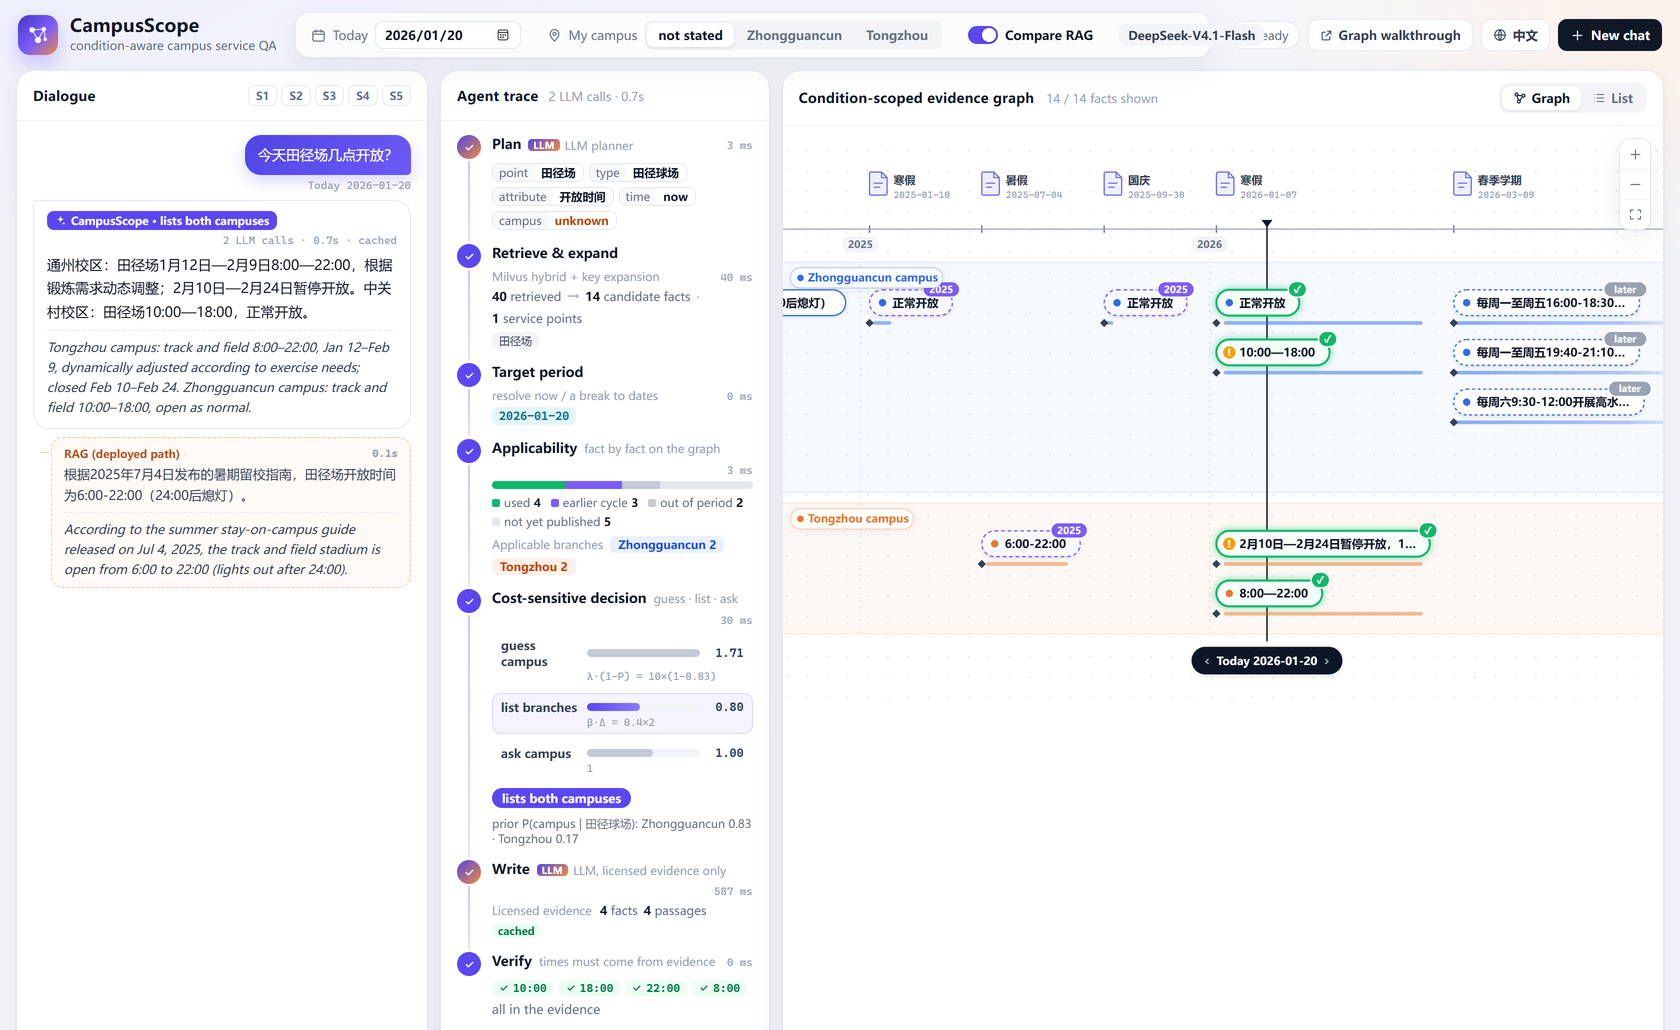
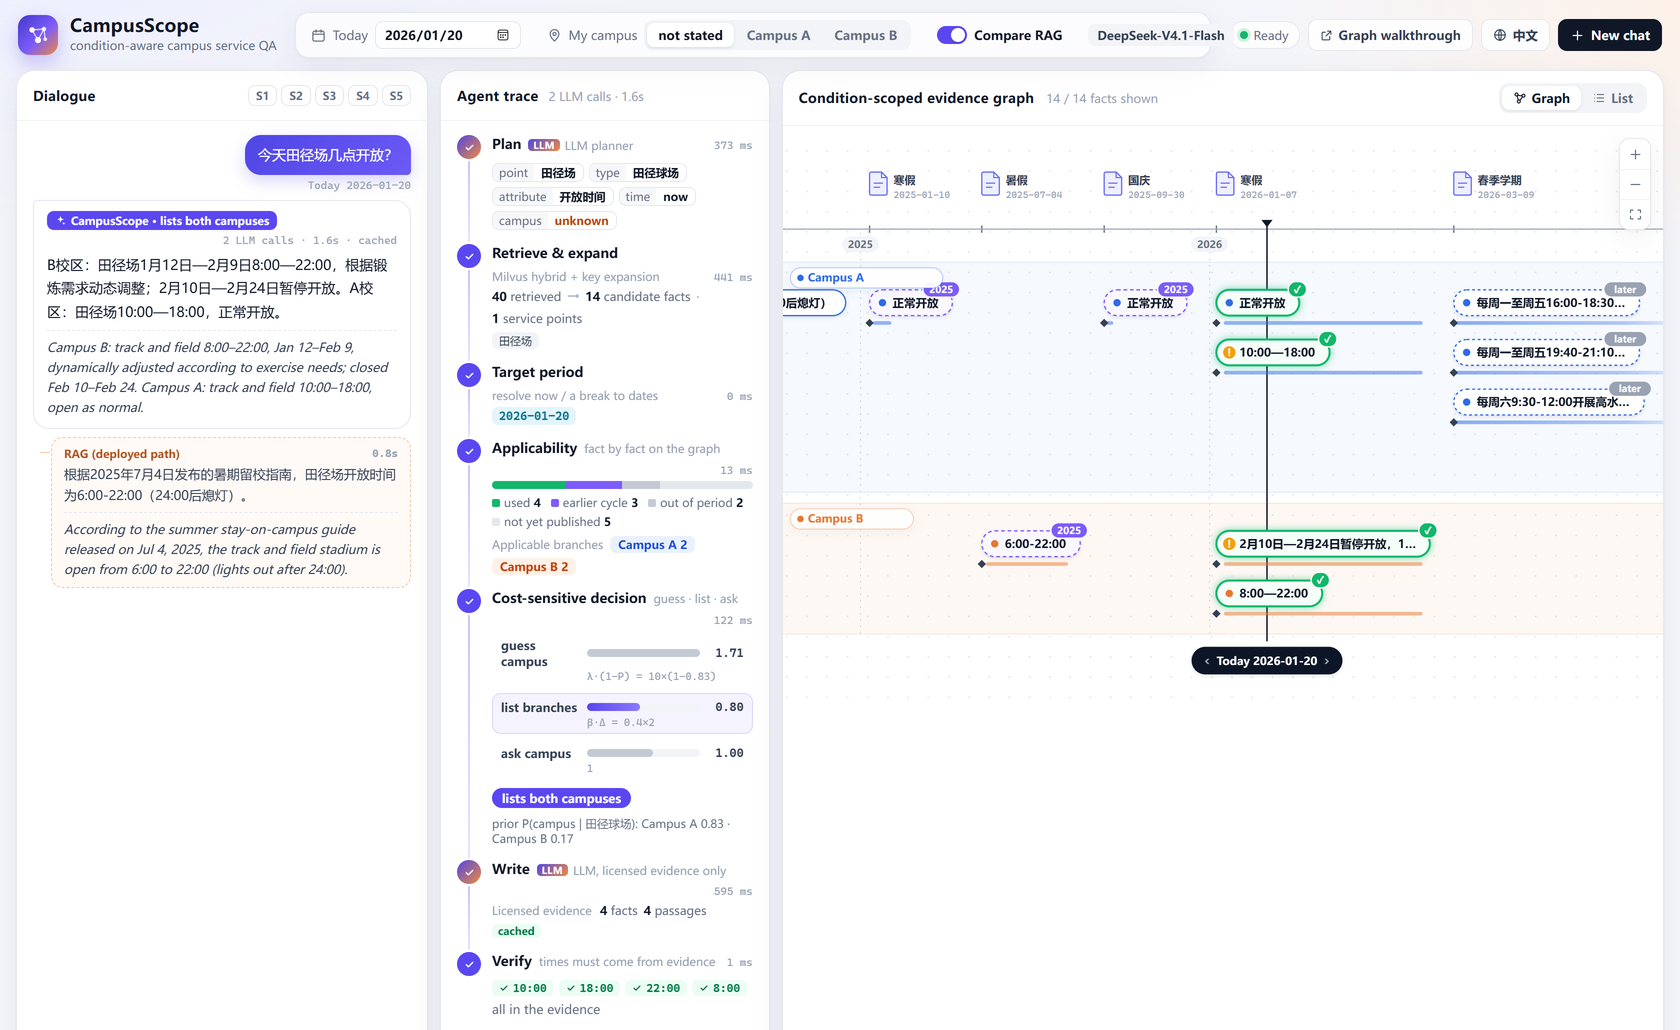
Present the demo as a generic university: no school, campus or department names
The demo is meant for any university, so nothing on screen or in the docs
names the one whose public notices it runs on.

- README, data/README, event protocol: "a university's logistics
  department", campus A / campus B, no portal or account names;
  CondQA-RUC is now CondQA-Campus.
- demo/frontend/public/deid.js, loaded by the app and the walkthrough page:
  replaces campus, university, department and account names in everything
  displayed (answers, notices, facts, graph labels), at display time only.
  The campus buttons read A校区 / B校区 (Campus A / B).
- The back end maps what a visitor types with the displayed names
  (A校区, Campus B, ...) back to the notices' own names, so the system
  still recognises the campus (test_campus_alias.py).
- docs/figures/interface.png retaken with the de-identified interface.

The system itself still reads the original notices; its parsing rules and
prompts are unchanged, so the paper's numbers and the released cache hold.

diff --git a/demo/frontend/src/i18n.ts b/demo/frontend/src/i18n.ts
@@ -2,8 +2,8 @@ import type { Lang } from "./types";
 
 const zh = {
   lang: "zh" as Lang,
-  brandSub: "条件感知的校园服务问答", today: "今天", campus: "我的校区", unstated: "未说明", zgc: "中关村", tz: "通州",
-  zgcFull: "中关村校区", tzFull: "通州校区", allFull: "两校区 / 未注明", compare: "对比 RAG", walkthrough: "证据图详解",
+  brandSub: "条件感知的校园服务问答", today: "今天", campus: "我的校区", unstated: "未说明", zgc: "A校区", tz: "B校区",
+  zgcFull: "A校区", tzFull: "B校区", allFull: "两校区 / 未注明", compare: "对比 RAG", walkthrough: "证据图详解",
   newChat: "新对话", dialogue: "对话", trace: "智能体轨迹", evidence: "条件作用域证据图", send: "发送", stop: "停止",
   placeholder: "问一个校园服务问题，例如：寒假期间田径场几点开放？", tryThese: "试试这些场景",
   heroTitle: "问一个问题，看它怎样在证据图上被回答",
@@ -12,7 +12,7 @@ const zh = {
   act: { answer: "直接回答", enumerate: "分校区列出", assume: "按最可能校区回答", ask: "追问校区", history: "往年参考", abstain: "无法回答" } as Record<string, string>,
   baseline: "RAG（部署路径）", baselineRunning: "RAG 生成中…", thinking: "推理中", writing: "生成中",
   calls: "次 LLM 调用", cached: "缓存命中", retry: "模型网关繁忙，第 {n} 次重试…", warmingMsg: "后端正在加载证据图与索引…",
-  stopped: "已停止", errorPrefix: "出错了：", quickZgc: "我在中关村校区", quickTz: "我在通州校区",
+  stopped: "已停止", errorPrefix: "出错了：", quickZgc: "我在A校区", quickTz: "我在B校区",
   traceEmpty: "提问后，这里逐步显示：理解问题 → 检索与图扩展 → 目标时段 → 适用性推理 → 代价敏感决策 → 生成 → 校验。",
   st: { plan: "理解问题", ground: "检索与图扩展", target: "目标时段", apply: "适用性推理", decide: "代价敏感决策", write: "生成答复", verify: "校验" } as Record<string, string>,
   stHint: { plan: "LLM 规划器", ground: "Milvus 混合检索 + 按键扩展", target: "把「今天/寒假」落到日期", apply: "在图上逐条判断", decide: "猜 · 列出 · 追问", write: "LLM，仅用许可证据", verify: "时间必须来自证据" } as Record<string, string>,
@@ -50,8 +50,8 @@ type Dict = typeof zh;
 
 const en: Dict = {
   lang: "en",
-  brandSub: "condition-aware campus service QA", today: "Today", campus: "My campus", unstated: "not stated", zgc: "Zhongguancun", tz: "Tongzhou",
-  zgcFull: "Zhongguancun campus", tzFull: "Tongzhou campus", allFull: "both / unstated", compare: "Compare RAG", walkthrough: "Graph walkthrough",
+  brandSub: "condition-aware campus service QA", today: "Today", campus: "My campus", unstated: "not stated", zgc: "Campus A", tz: "Campus B",
+  zgcFull: "Campus A", tzFull: "Campus B", allFull: "both / unstated", compare: "Compare RAG", walkthrough: "Graph walkthrough",
   newChat: "New chat", dialogue: "Dialogue", trace: "Agent trace", evidence: "Condition-scoped evidence graph", send: "Send", stop: "Stop",
   placeholder: "Ask in Chinese, e.g. 寒假期间田径场几点开放？ (track field hours in the winter break)", tryThese: "Try a scenario",
   heroTitle: "Ask a question and watch it being answered on the evidence graph",
@@ -60,7 +60,7 @@ const en: Dict = {
   act: { answer: "answer", enumerate: "lists both campuses", assume: "answers for the likely campus", ask: "asks for the campus", history: "last cycle, labeled", abstain: "no answer" },
   baseline: "RAG (deployed path)", baselineRunning: "RAG is writing…", thinking: "Reasoning", writing: "Writing",
   calls: "LLM calls", cached: "cached", retry: "Gateway busy, retry {n}…", warmingMsg: "The backend is loading the graph and the index…",
-  stopped: "Stopped", errorPrefix: "Error: ", quickZgc: "我在中关村校区", quickTz: "我在通州校区",
+  stopped: "Stopped", errorPrefix: "Error: ", quickZgc: "我在A校区", quickTz: "我在B校区",
   traceEmpty: "After you ask: plan → retrieval and graph expansion → target period → applicability → cost-sensitive decision → write → verify.",
   st: { plan: "Plan", ground: "Retrieve & expand", target: "Target period", apply: "Applicability", decide: "Cost-sensitive decision", write: "Write", verify: "Verify" },
   stHint: { plan: "LLM planner", ground: "Milvus hybrid + key expansion", target: "resolve now / a break to dates", apply: "fact by fact on the graph", decide: "guess · list · ask", write: "LLM, licensed evidence only", verify: "times must come from evidence" },

diff --git a/demo/frontend/public/deid.js b/demo/frontend/public/deid.js
@@ -1,0 +1,68 @@
+/* Display-level de-identification: the demo runs on one university's public notices, but shows them as a generic
+ * campus (Campus A / Campus B, "the university", "the logistics department"). Only what is displayed changes; the
+ * system itself reads and answers the original notices (the back end maps "A校区"/"B校区" typed by a visitor back).
+ * Loaded by index.html and cseg.html; the screenshot scripts of the paper inject the same file. */
+(function () {
+  var MAP = [
+    ["CondQA-RUC", "CondQA-Campus"],
+    ["中国人民大学", "某高校"], ["人民大学", "某高校"], ["温馨人大", "学校公众号"], ["RUC", ""], ["人大", "本校"],
+    ["综合服务保障体系", "高校后勤"], ["综合保障部", "后勤部门"], ["综保部", "后勤部门"], ["综合服务门户", "服务门户"],
+    ["中关村校区", "A校区"], ["通州校区", "B校区"], ["中关村", "A校区"], ["潞城站", "B校区附近地铁站"],
+    ["潞城", "B校区"], ["通州", "B校区"],
+    ["Renmin University of China", "the university"], ["Renmin University", "the university"],
+    ["General Services Department", "logistics department"], ["Wenxin Renda", "the university's WeChat account"],
+    ["Comprehensive Services Portal", "service portal"],
+    ["Zhongguancun campus", "Campus A"], ["Zhongguancun Campus", "Campus A"], ["Tongzhou campus", "Campus B"],
+    ["Tongzhou Campus", "Campus B"], ["Zhongguancun", "Campus A"], ["Tongzhou", "Campus B"], ["Lucheng", "Campus B"]
+  ];
+  function deid(s) {
+    if (!s) return s;
+    for (var i = 0; i < MAP.length; i++) if (s.indexOf(MAP[i][0]) >= 0) s = s.split(MAP[i][0]).join(MAP[i][1]);
+    return s;
+  }
+  window.deid = deid;
+  var ATTRS = ["title", "placeholder", "aria-label", "alt"];
+  function fixText(n) {
+    var v = n.nodeValue, w = deid(v);
+    if (w !== v) n.nodeValue = w;
+  }
+  function fixEl(el) {
+    for (var i = 0; i < ATTRS.length; i++) {
+      var v = el.getAttribute && el.getAttribute(ATTRS[i]);
+      if (v) { var w = deid(v); if (w !== v) el.setAttribute(ATTRS[i], w); }
+    }
+  }
+  function walk(root) {
+    if (!root) return;
+    if (root.nodeType === 3) { fixText(root); return; }
+    if (root.nodeType !== 1 && root.nodeType !== 9 && root.nodeType !== 11) return;
+    if (root.nodeType === 1) {
+      var tag = root.tagName;
+      if (tag === "SCRIPT" || tag === "STYLE" || tag === "TEXTAREA" || tag === "INPUT") return;
+      fixEl(root);
+    }
+    var tw = document.createTreeWalker(root, NodeFilter.SHOW_TEXT | NodeFilter.SHOW_ELEMENT, {
+      acceptNode: function (n) {
+        if (n.nodeType === 1 && (n.tagName === "SCRIPT" || n.tagName === "STYLE" || n.tagName === "TEXTAREA"))
+          return NodeFilter.FILTER_REJECT;
+        return NodeFilter.FILTER_ACCEPT;
+      }
+    });
+    var n;
+    while ((n = tw.nextNode())) { if (n.nodeType === 3) fixText(n); else fixEl(n); }
+  }
+  function start() {
+    walk(document.body);
+    document.title = deid(document.title);
+    new MutationObserver(function (ms) {
+      for (var i = 0; i < ms.length; i++) {
+        var m = ms[i];
+        if (m.type === "characterData") fixText(m.target);
+        else if (m.type === "attributes") fixEl(m.target);
+        else for (var j = 0; j < m.addedNodes.length; j++) walk(m.addedNodes[j]);
+      }
+    }).observe(document.body, { childList: true, subtree: true, characterData: true, attributes: true,
+      attributeFilter: ATTRS });
+  }
+  if (document.body) start(); else document.addEventListener("DOMContentLoaded", start);
+})();

diff --git a/demo/frontend/index.html b/demo/frontend/index.html
@@ -4,6 +4,7 @@
     <meta charset="UTF-8" />
     <meta name="viewport" content="width=device-width, initial-scale=1.0" />
     <link rel="icon" type="image/svg+xml" href="/favicon.svg" />
+    <script src="/deid.js"></script>
     <title>CampusScope · Condition-aware campus service QA</title>
   </head>
   <body>

diff --git a/demo/frontend/public/cseg.html b/demo/frontend/public/cseg.html
@@ -243,6 +243,7 @@ input[type=range]{width:100%;accent-color:var(--brand)}
 .langsw:hover{border-color:#B8AEFF;color:var(--brand)}
 .noglosses .gloss{display:none}
 </style>
+<script src="deid.js"></script>
 </head>
 <body>
 <div class="app">

diff --git a/demo/backend/app/services/qa_service.py b/demo/backend/app/services/qa_service.py
@@ -52,6 +52,17 @@ def safe_gloss(text: str, model: str) -> str | None:
         return None
 
 
+CAMPUS_ALIAS = (("A校区", "中关村校区"), ("B校区", "通州校区"), ("Campus A", "中关村校区"), ("Campus B", "通州校区"),
+                ("campus A", "中关村校区"), ("campus B", "通州校区"))
+
+
+def campus_alias(text: str) -> str:
+    """What a visitor types with the displayed campus names, in the notices' own names."""
+    for shown, real in CAMPUS_ALIAS:
+        text = text.replace(shown, real)
+    return text
+
+
 class QAService:
     def __init__(self, agents: Callable[[str], tuple], settings: Settings):
         self._agents = agents          # model -> (StreamingCampusScope, RAG)
@@ -60,6 +71,8 @@ class QAService:
     @staticmethod
     def conversation(req: ChatRequest) -> list[dict]:
         conv = [t.model_dump() for t in req.conversation]
+        # the interface shows the two campuses as A / B (deid.js); the notices, and so the system, name them
+        conv = [dict(t, text=campus_alias(t["text"])) if t["role"] == "user" else t for t in conv]
         # the campus picked in the top bar counts as something the visitor said (the system only trusts the dialogue)
         if req.campus in CAMPUS_HINT and not any("校区" in t["text"] for t in conv if t["role"] == "user"):
             conv = [dict(role="user", text=CAMPUS_HINT[req.campus])] + conv

diff --git a/scripts/build_benchmark.py b/scripts/build_benchmark.py
@@ -1,9 +1,9 @@
-"""CondQA-RUC (Section 4.1): condition-dependent questions over real notices, with hidden contexts.
+"""CondQA-Campus (Section 4.1): condition-dependent questions over real notices, with hidden contexts.
 
     python scripts/build_benchmark.py
 
 The released data/benchmark.jsonl, gold_facts.jsonl and audit_sheet.csv were produced by this script. The
-gold facts are extracted by Bonsai-27B and cross-checked by Qwen3-32B, so CondQA-RUC is independent of the
+gold facts are extracted by Bonsai-27B and cross-checked by Qwen3-32B, so CondQA-Campus is independent of the
 model under test (DeepSeek-V4.1-Flash) and of CampusScope's graph:
   A. source notices: service notices about hours, openings, schedules and adjustments;
   B. extraction by the *other* model (Bonsai-27B) over the whole notice;

diff --git a/demo/backend/tests/test_campus_alias.py b/demo/backend/tests/test_campus_alias.py
@@ -1,0 +1,9 @@
+"""The interface shows the campuses as A / B; what a visitor types is mapped back to the notices' names."""
+from app.services.qa_service import campus_alias
+
+
+def test_displayed_campus_names_map_back():
+    assert campus_alias("B校区寒假健身房开吗？") == "通州校区寒假健身房开吗？"
+    assert campus_alias("我在A校区") == "我在中关村校区"
+    assert campus_alias("Is the gym on Campus B open?") == "Is the gym on 通州校区 open?"
+    assert campus_alias("今天田径场几点开放？") == "今天田径场几点开放？"

diff --git a/scripts/run_benchmark.py b/scripts/run_benchmark.py
@@ -1,4 +1,4 @@
-"""Runs every system on CondQA-RUC with simulated users (Section 4.1; DeepSeek-V4.1-Flash as the backbone).
+"""Runs every system on CondQA-Campus with simulated users (Section 4.1; DeepSeek-V4.1-Flash as the backbone).
 
     python scripts/run_benchmark.py --suite main       # the seven baselines + CampusScope (Table 1)
     python scripts/run_benchmark.py --suite ablation   # components of CampusScope

diff --git a/campusscope/evaluation/__init__.py b/campusscope/evaluation/__init__.py
@@ -1,1 +1,1 @@
-"""CondQA-RUC evaluation: simulated users, outcome-based judging and the metrics of Table 1."""
+"""CondQA-Campus evaluation: simulated users, outcome-based judging and the metrics of Table 1."""

diff --git a/README.md b/README.md
@@ -45,7 +45,7 @@ timeline of the graph.
 
 ### Why chunks are not enough
 
-Measured on the 1,009 public notices of the General Services Department of Renmin University of China and on its
+Measured on the 1,009 public notices of a university's logistics department and on its
 prototype RAG assistant:
 
 | | Challenge | Observation |
@@ -90,7 +90,7 @@ From 342 service notices, the graph holds 4,031 facts, 1,947 passages, 1,964 rev
 
 ## Results
 
-**CondQA-RUC**: 247 questions over 57 real notices, answered by simulated users who reveal their hidden campus and
+**CondQA-Campus**: 247 questions over 57 real notices, answered by simulated users who reveal their hidden campus and
 dates only when asked. All systems share the notices, retriever, knowledge cutoff, backbone
 (DeepSeek-V4.1-Flash) and simulated user.
 
@@ -123,7 +123,7 @@ explains the graph behind S1 step by step.
 | | Scenario | What the visitor sees |
 |---|---|---|
 | **S1** | Silent campus (C2) | "When is the track field open today?" on 20 January 2026 without a campus: the branches disagree, and listing both (0.80) beats asking (1.00) and guessing (1.71). |
-| **S2** | Scope stated (C1) | A Tongzhou student asks about the gym during the break and gets the Tongzhou section only. |
+| **S2** | Scope stated (C1) | A campus-B student asks about the gym during the break and gets the campus-B section only. |
 | **S3** | Revision (C3) | "When does the East bathhouse open in the morning?" on 9 March 2026: the September slot is struck through, revised in January; dragging "today" back to October makes it apply again. |
 | **S4** | No notice yet (C3) | Winter-break hours asked in December 2025: no fact of the new cycle exists, so the *rec* edge leads to last winter's hours, given with their year. |
 
@@ -172,17 +172,17 @@ campusscope/                the system
 └── llm.py, text.py, chunking.py, config.py
 scripts/                    the offline pipeline: corpus, graph compilation, index, benchmark runs, Table 1
 demo/                       the web demo: FastAPI + SSE back end, React front end, Docker Compose (§3.2, §3.3)
-data/                       notices, compiled notices, CondQA-RUC (see data/README.md)
+data/                       notices, compiled notices, CondQA-Campus (see data/README.md)
 tests/                      unit tests (no data or services needed)
 ```
 
 ## Data and ethics
 
-CampusScope is built on the notices that the General Services Department of Renmin University of China publishes
-on its website (Comprehensive Services Portal) and on its official WeChat account. Two small aggregate files, a
+CampusScope is built on the public notices that a university's logistics department publishes on its website
+and on its official WeChat account; the demo shows its two campuses as campus A and campus B. Two small aggregate files, a
 place-name gazetteer and a per-type campus prior, were derived from the department's internal service log; they
 contain no request text and no personal data (see [data/README.md](data/README.md)). No personal data reach a
-model. The questions of CondQA-RUC are generated from the notices, and the users in the evaluation are simulated
+model. The questions of CondQA-Campus are generated from the notices, and the users in the evaluation are simulated
 by rules that answer a clarification truthfully, only about what was asked.
 
 ## License
@@ -202,5 +202,5 @@ The code is released under the [MIT License](LICENSE). The notices remain the pr
 
 ## Acknowledgments
 
-We thank the General Services Department of Renmin University of China for publishing the notices this work builds
-on and for their advice on the system and on the design of its services.
+We thank the university logistics department that published the notices this work builds on, for its advice on
+the system and on the design of its services.

diff --git a/data/README.md b/data/README.md
@@ -1,17 +1,17 @@
 # Data
 
 Files read by `campusscope/` and written by `scripts/`. They are not included in this repository; this file
-documents their format. The MIT license of this repository covers the code; the notices are public posts of the
-General Services Department of Renmin University of China and remain theirs.
+documents their format. The MIT license of this repository covers the code; the notices are public posts of a
+university's logistics department and remain theirs.
 
 | File | Content | Produced by |
 | --- | --- | --- |
-| `notices.jsonl` | the 1,009 notices published from January 2023 to September 2026 on the department's website (Comprehensive Services Portal) and WeChat account: `doc_id`, `published`, `title`, `text`, and the tags `service`, `family`, `cycle` | `scripts/prepare_corpus.py` (from the notice PDFs; titles tagged by Qwen3-32B) |
+| `notices.jsonl` | the 1,009 notices published from January 2023 to September 2026 on the department's website and WeChat account: `doc_id`, `published`, `title`, `text`, and the tags `service`, `family`, `cycle` | `scripts/prepare_corpus.py` (from the notice PDFs; titles tagged by Qwen3-32B) |
 | `compiled_deepseek.jsonl` | raw compiler output for the 342 service notices: notice-level scope, outline (headings with the conditions they state) and span-grounded facts | `scripts/compile_graph.py` (DeepSeek-V4.1-Flash, temperature 0) |
 | `graph_stats.json` | statistics of the full evidence graph (4,031 facts, 1,947 passages, 1,964 revision and 627 recurrence edges) | `scripts/build_index.py` |
 | `gazetteer.json` | place names → campus (`zgc` / `tz`), the last resort of scope inheritance and the cue of T6 items | see *Provenance* below |
 | `campus_prior.json` | per-service-type campus prior P(campus \| type) of the cost-sensitive responder (Eq. 2) | see *Provenance* below |
-| `benchmark.jsonl` | CondQA-RUC: 247 items with question, hidden context (campus, date), gold and negative tokens, source fact | `scripts/build_benchmark.py` |
+| `benchmark.jsonl` | CondQA-Campus: 247 items with question, hidden context (campus, date), gold and negative tokens, source fact | `scripts/build_benchmark.py` |
 | `gold_facts.jsonl` | the verified gold facts of the 57 source notices | `scripts/build_benchmark.py` |
 | `benchmark_sources.jsonl` | the source notices of the benchmark | `scripts/build_benchmark.py` |
 | `audit_sheet.csv` | one row per item for manual verification | `scripts/build_benchmark.py` |

diff --git a/demo/docs/event-protocol.md b/demo/docs/event-protocol.md
@@ -21,7 +21,7 @@ Content-Type: application/json
 | --- | --- |
 | `conversation` | the dialogue so far (1–20 turns, `user` / `assistant`); the last turn is the question |
 | `today` | the visitor's "today" = the knowledge cutoff (notices published later are unknown) |
-| `campus` | `zgc` / `tz` / `null`: the campus picked in the top bar, prepended as a user turn ("（我在通州校区）") |
+| `campus` | `zgc` / `tz` / `null`: the campus picked in the top bar, prepended as a user turn naming the campus |
 | `compare` | also run the chunk-RAG baseline, in parallel |
 | `lang` | `en` (default) adds English glosses (a separate call; never feeds back into the answer); `zh` does not. Error messages follow it |
 
@@ -38,9 +38,9 @@ data: {"type": "baseline", "status": "running"}
 ...
 data: {"type": "graph", "graph": {"notices": [...], "facts": [...], "edges": [...], ...}}
 data: {"type": "used", "ids": ["b28eb1484c#44", ...], "mode": "enumerate", "passages": [...]}
-data: {"type": "delta", "text": "通州校区："}
+data: {"type": "delta", "text": "B校区："}
 ...
-data: {"type": "answer", "text": "通州校区：…", "action": "enumerate", "rewritten": false}
+data: {"type": "answer", "text": "B校区：…", "action": "enumerate", "rewritten": false}
 data: {"type": "baseline", "status": "done", "text": "…", "ms": 2100}
 data: {"type": "complete", "answer": "…", "action": "enumerate", "calls": 2, "latency": 1.3, "cached": true}
 data: [DONE]
